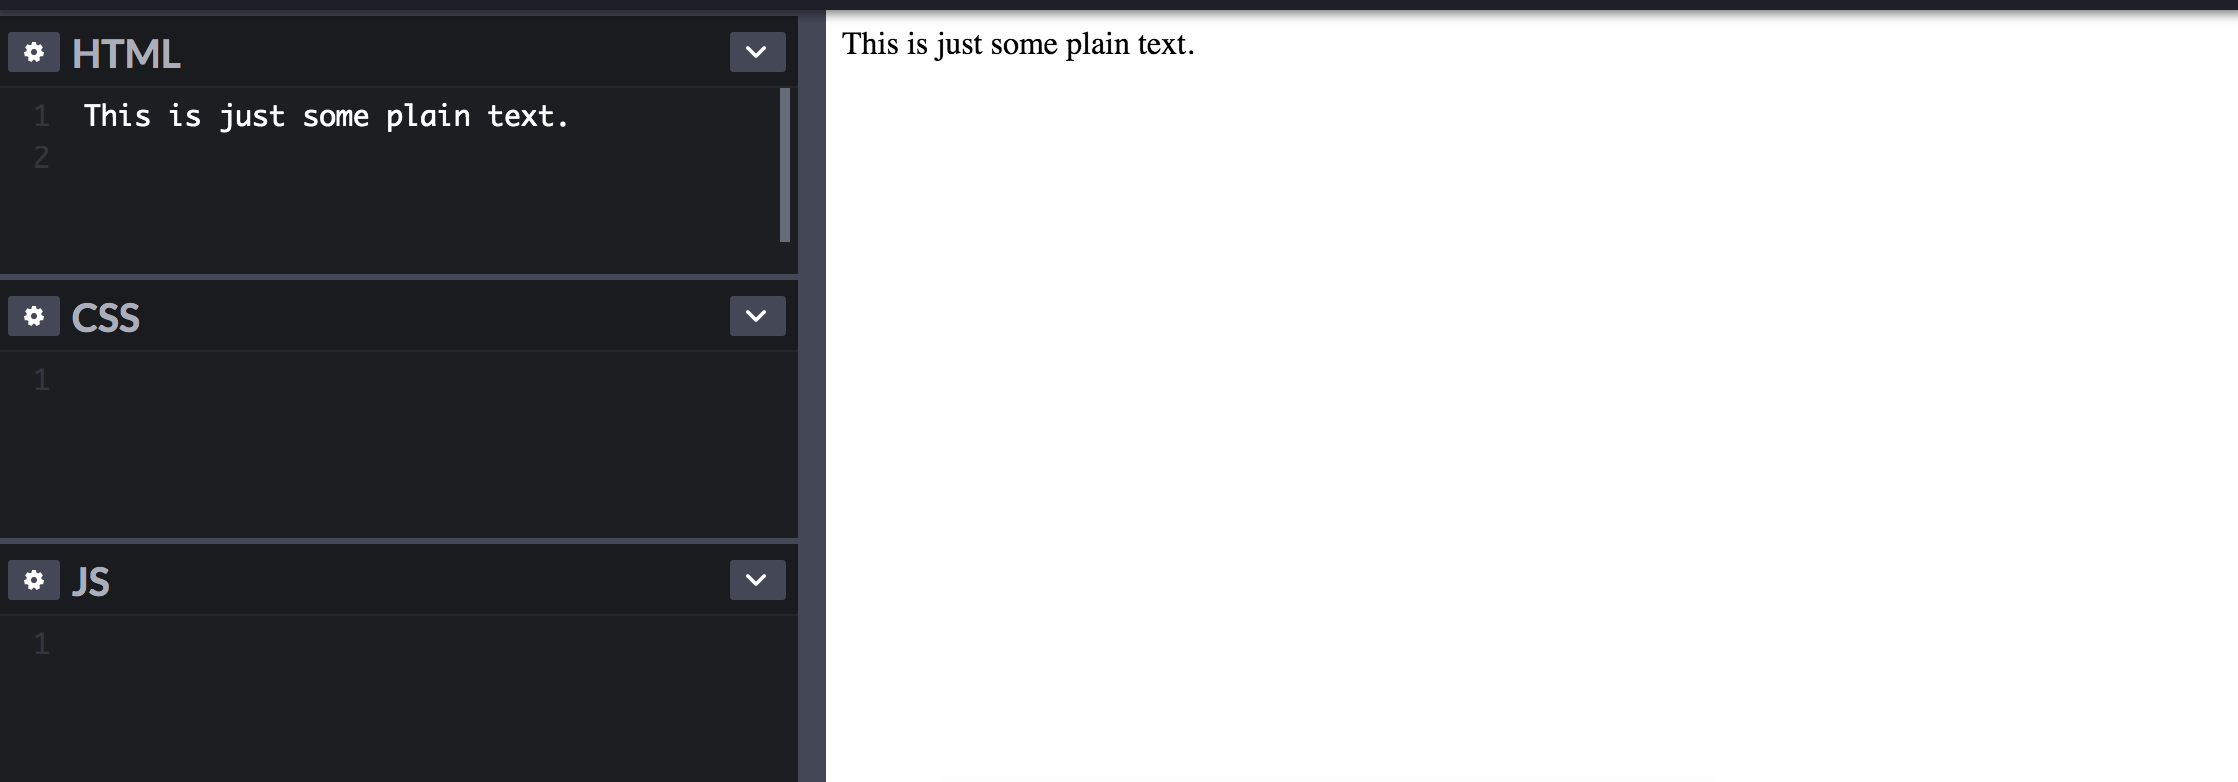
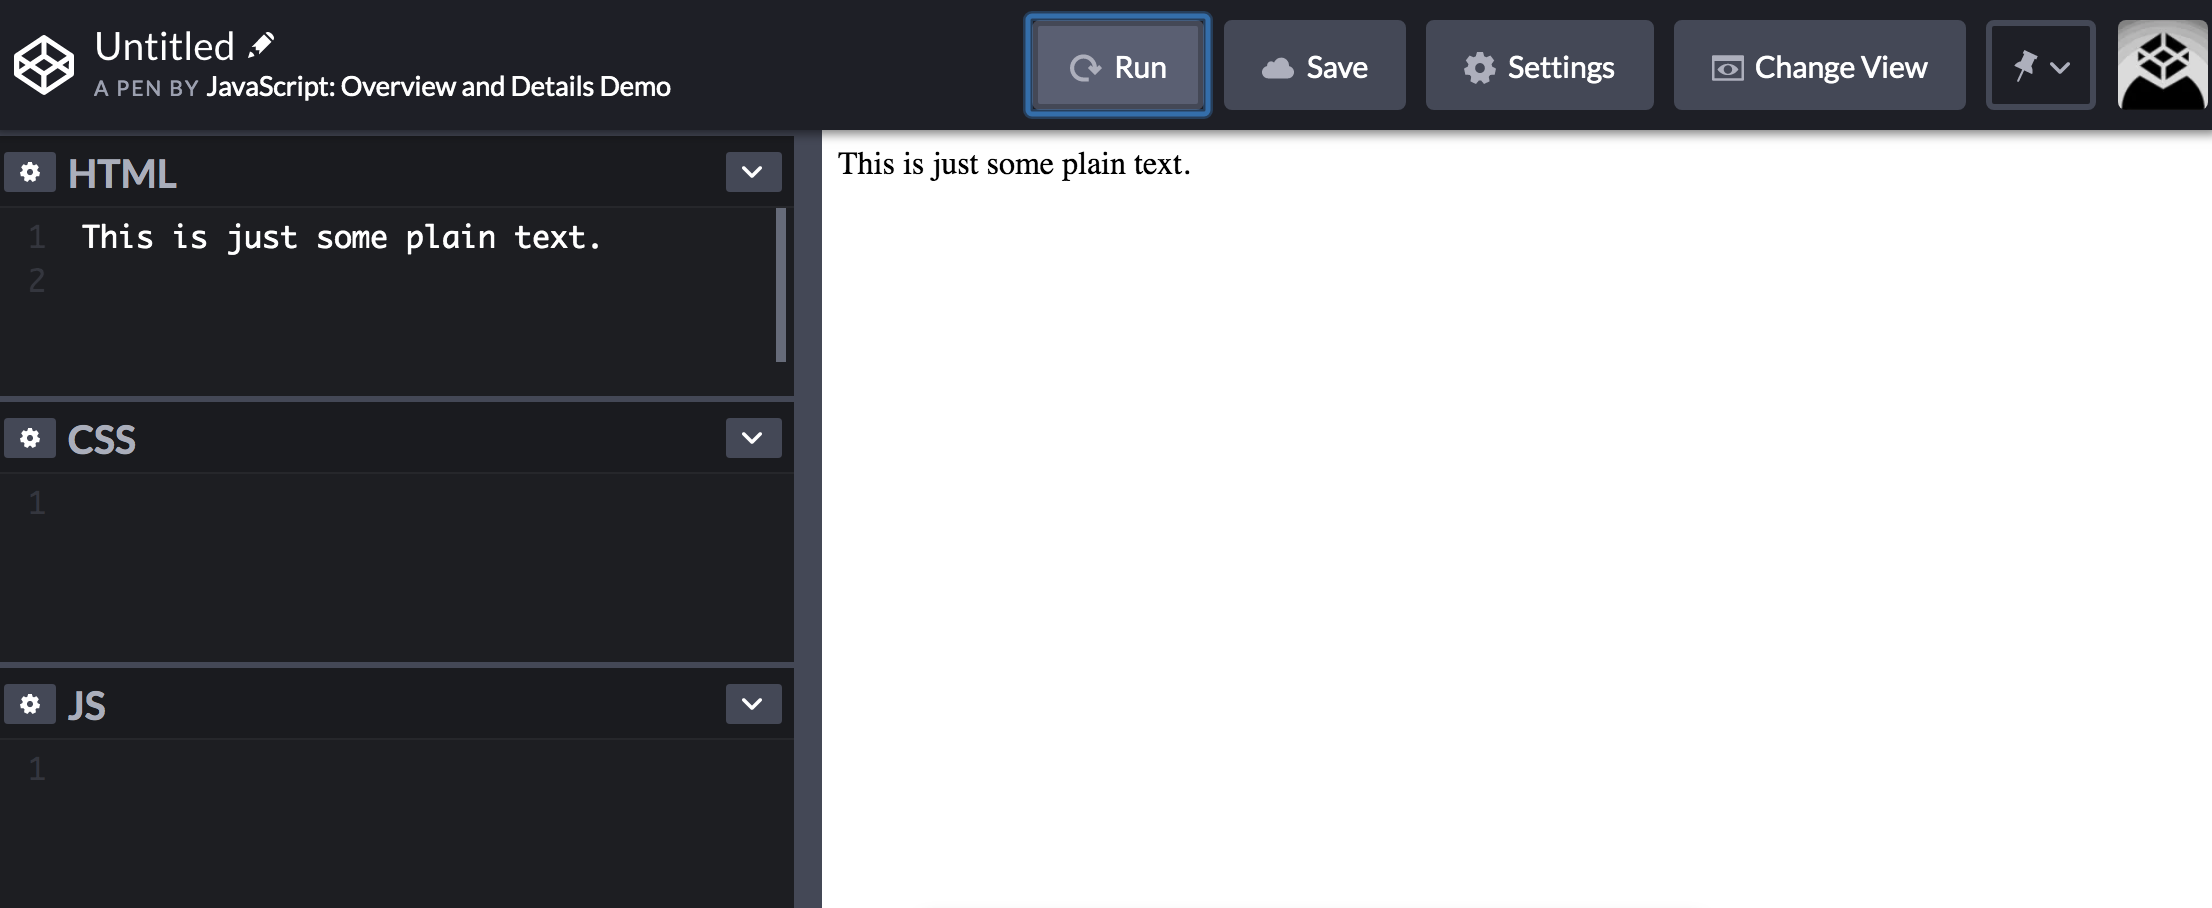
click run

Changed region(s): [[0.0, 0.0, 1.0, 1.0], [0.0312, 0.2455, 0.2807, 0.2762]]

diff --git a/vol2/index.php b/vol2/index.php
@@ -272,10 +272,17 @@ stepheader('note-codepen-auto-update', 'Disable &ldquo;Auto Update Preview&rdquo
 
     <? screenshot_vol2('codepen-avatar-settings.png', True, True) ?>
 
-    <p>Finally, scroll down and un-check the Auto Update Preview check box, to
+    <p>Next, scroll down and un-check the Auto Update Preview check box, to
         disable Auto Update Preview.</p>
 
     <? screenshot_vol2('codepen-avatar-settings-auto.png', True, True) ?>
+
+    <p>Last, scroll up to the top and click the green button (in the top
+        right corner) that says
+    &ldquo;Save All Settings.&rdquo;</p>
+
+    <? screenshot_vol2('codepen-save-settings.png', True, True) ?>
+
 
     <p>Now, whenever you want CodePen to run your code (HTML, CSS, and JavaScript),
     you must click the Run button at the top of your window.</p>
@@ -292,7 +299,7 @@ partheader('HTML'); ##############################
 <? #############################################################################
 stepheader('note-intro-html', 'Introduction to HTML'); ?>
 
-    <p>Whereas JavaScript is a programming language, HTML is <i>markup language</i>.
+    <p>Whereas JavaScript is a programming language, HTML is a <i>markup language</i>.
     That is, HTML is a language that allows us to “mark up” documents.
     Let’s look at some examples.</p>
 
@@ -300,7 +307,7 @@ stepheader('note-intro-html', 'Introduction to HTML'); ?>
 
 <? prehtml("This is just some plain text.") ?>
 
-    <p>The text you entered should automatically appear in the preview pane:</p>
+    <p>Then, click the Run button (at the top of the window), wait a few seconds, and the text you entered should appear in the preview pane:</p>
 
     <? screenshot_vol2('codepen-plaintext.png', True, True) ?>
 
@@ -310,7 +317,7 @@ stepheader('note-intro-html', 'Introduction to HTML'); ?>
 <? #############################################################################
 stepheader('note-i-b', 'Italics and bold'); ?>
 
-    <p>In the HTML pane for <a target="_blank" href="https://codepen.io/pen">CodePen</a>, replace the old text with this new text:</p>
+    <p>In the HTML pane for <a target="_blank" href="https://codepen.io/pen">CodePen</a>, replace the old text with this new text, and click the Run button:</p>
 
 <? prehtml("This is just some plain text.
 <i>This text is italicized.</i>
@@ -354,7 +361,7 @@ stepheader('note-p-tag', 'The div tag'); ?>
 <? prehtml("<div><i>This text is italicized.</i></div>
 <div><b>This text is bold.</b></div>") ?>
 
-    <p>Your CodePen preview pane should look something like:</p>
+    <p>After you click the Run button, your CodePen preview pane should look something like:</p>
 
     <div class="html-page">
 <div>
@@ -388,7 +395,7 @@ stepheader('note-intro-css', 'Introduction to CSS'); ?>
     The background of this div is gray.
 </div>") ?>
 
-    <p>Your CodePen preview pane should look something like:</p>
+    <p>After you click the Run button, your CodePen preview pane should look something like:</p>
 
     <div class="html-page">
 <div style='background-color:wheat'>
@@ -438,7 +445,7 @@ stepheader('note-css-pane', 'The CSS pane'); ?>
 
 
 
-<p>Your CodePen preview pane should look something like:</p>
+<p>After you click the Run button, your CodePen preview pane should look something like:</p>
 
     <div class="html-page">
 <div style='background-color:turquoise'>
@@ -479,7 +486,7 @@ stepheader('note-cell', 'Creating a cell class'); ?>
     background-color: lightgray;
 }") ?>
 
-    <p>Your preview pane should look something like this:</p>
+    <p>After you click Run, your preview pane should look something like this:</p>
 
 <div class="html-page">
     <div class='cell_1'></div>
@@ -502,7 +509,7 @@ stepheader('note-three-attempt', 'Three cells (attempt)'); ?>
 <div class='cell'></div>
 <div class='cell'></div>") ?>
 
-    <p>Your preview pane should look like this:</p>
+    <p>After you click Run, your preview pane should look like this:</p>
 <div class="html-page">
     <div class='cell_1'></div>
     <div class='cell_1'></div>
@@ -540,7 +547,7 @@ stepheader('note-three-success', 'Three cells (success)'); ?>
     margin-bottom: 5px;
 }") ?>
 
-    <p>And, your preview pane should look something like:</p>
+    <p>And, after you click Run, your preview pane should look something like:</p>
 
 <div class="html-page">
     <div class='cell_2'></div>
